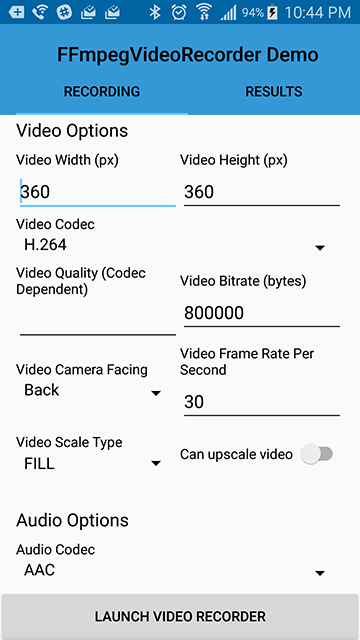
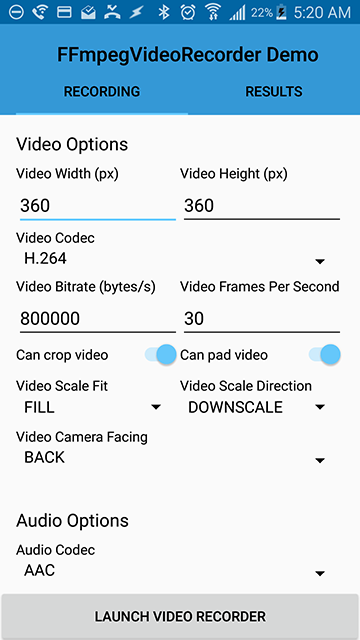
- Update build version to v2 - Update README and screenshots

diff --git a/README.md b/README.md
@@ -1,7 +1,8 @@
 # FFmpegVideoRecorder - Customizable Video Recording Library for Android
 
-The library provides a way to record multiple videos and merge them together using FFmpeg Recorder
-from JavaCV. It is designed to allow maximum customization of the video encoding and recoridng.
+The library provides a way to record multiple videos using MediaRecorder and merge them together
+using FFmpeg Recorder from JavaCV. It is designed to allow maximum customization of the video
+encoding and recording.
 
 It has built in activities for easy recording and previewing. But it also exposes basic components
 that can be used to customize your own UI and logic.
@@ -13,24 +14,31 @@ that can be used to customize your own UI and logic.
 - Able to record multiple clips and combine them into one video
 - Camera preview image is scaled, cropped, and padded to exactly how it will be recorded
 - Can generate a thumbnail image for the video
-- Can set attributes such as:
+- Can set recording parameters such as:
+    - video codec
     - video width
     - video height
-    - video scaling
-    - video padding
-    - video bitrate
-    - video codec
     - video frame rate
+    - video bitrate
+    - video scaling
+    - video image fit
+    - video cropping
+    - video padding
     - audio codec
     - audio bitrate
     - audio channel count
     - audio sampling rate
+- Can set interaction parameters such as:
     - min and max recording time
     - max file size
+    - tap to focus duration
+    - tap to focus size
+- Can set theme colors parameters
 
 ### Components
 
-All components are designed to be extensible and usable without all the other components.
+All components are designed to be extensible and usable without all the other components. Some of
+the main components:
 
 ##### CameraController
 
